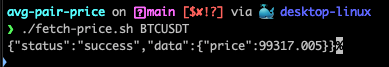
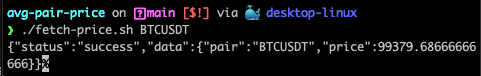
Add pair in successful response + update readme

Changed region(s): [[0.0, 0.0, 1.0, 1.0], [0.0, 0.0597, 0.9563, 0.5373]]

diff --git a/service-api/src/index.ts b/service-api/src/index.ts
@@ -20,6 +20,7 @@ app.get(
       res.send({
         status: "success",
         data: {
+          pair,
           price: averagePrice,
         },
       });

diff --git a/README.md b/README.md
@@ -30,7 +30,8 @@ Success example response:
 {
   "status": "success",
   "data": {
-    "price": 1.2321
+    "pair": "BTCUSDT",
+    "price": 99379.68666666666
   }
 }
 ```
@@ -137,4 +138,4 @@ Possible improvements are:
 - wrap it up in a k8s cluster to have automatic pod handling
 - add configuration for order book depth for each service
 - wrap up exchange APIs in small SDKs instead of directly using fetch
-- remove `runall.sh` and use `nx` or a global `package.json`
+- remove `run-backend.sh` and use `nx` or a global `package.json`
